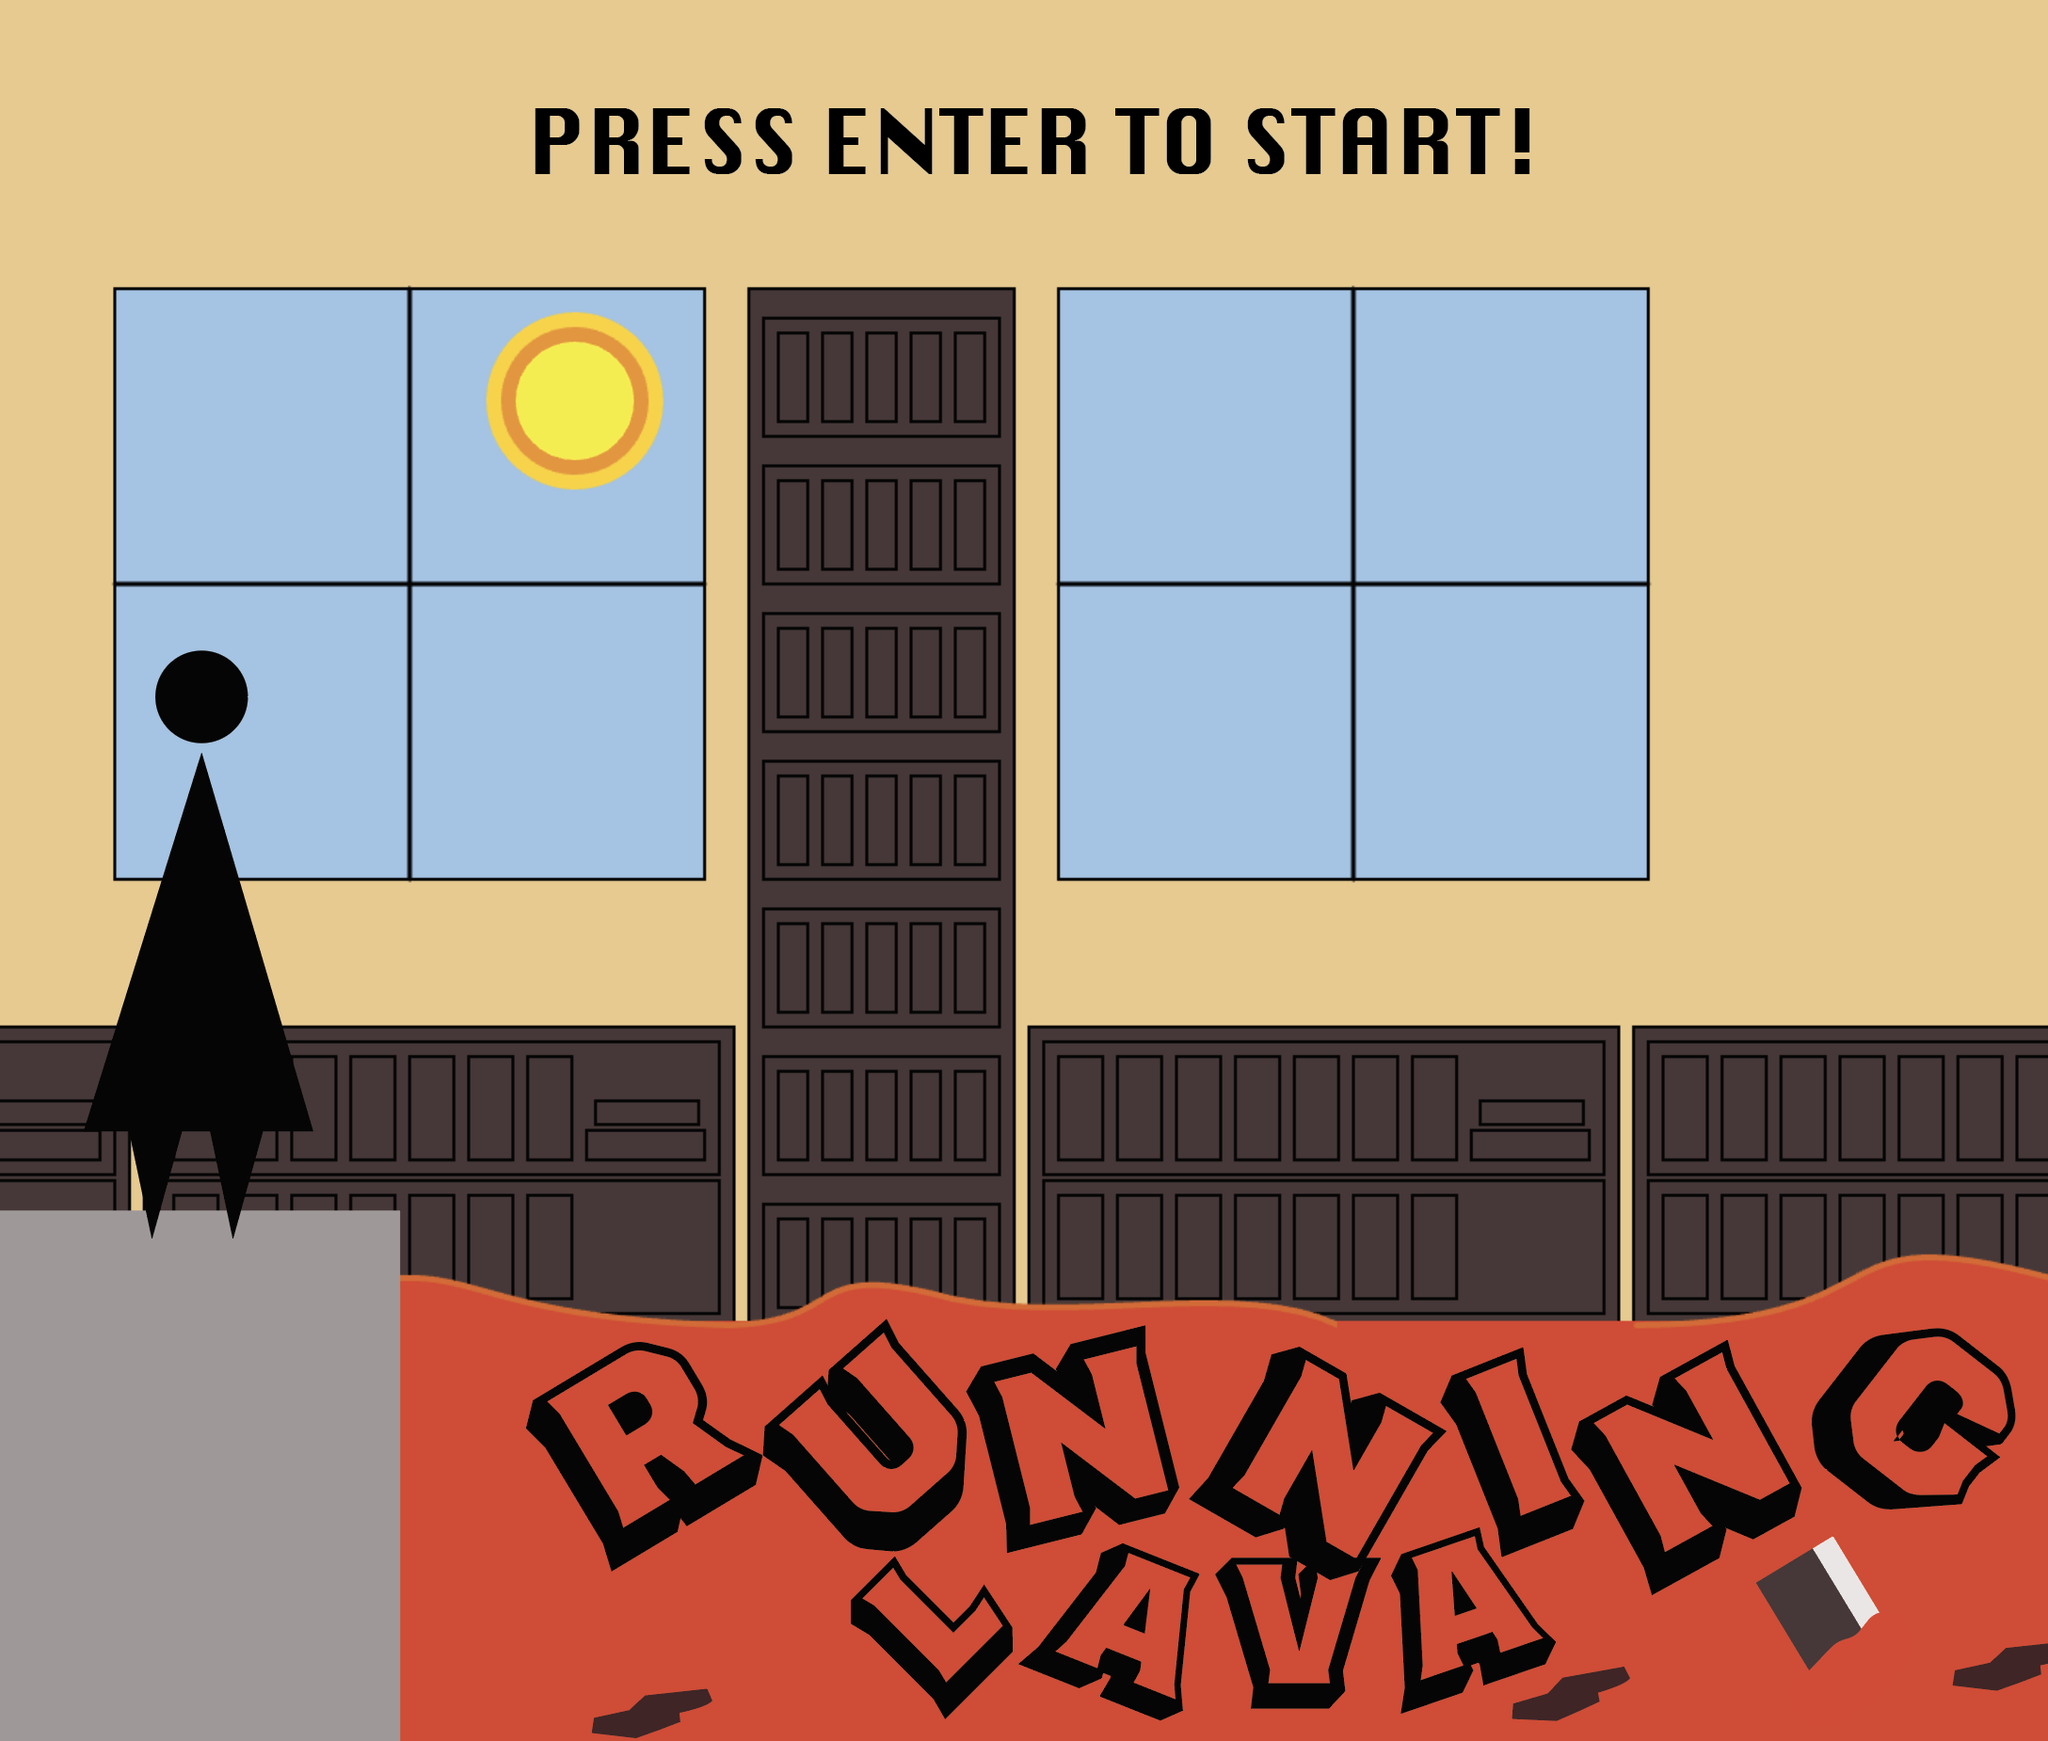
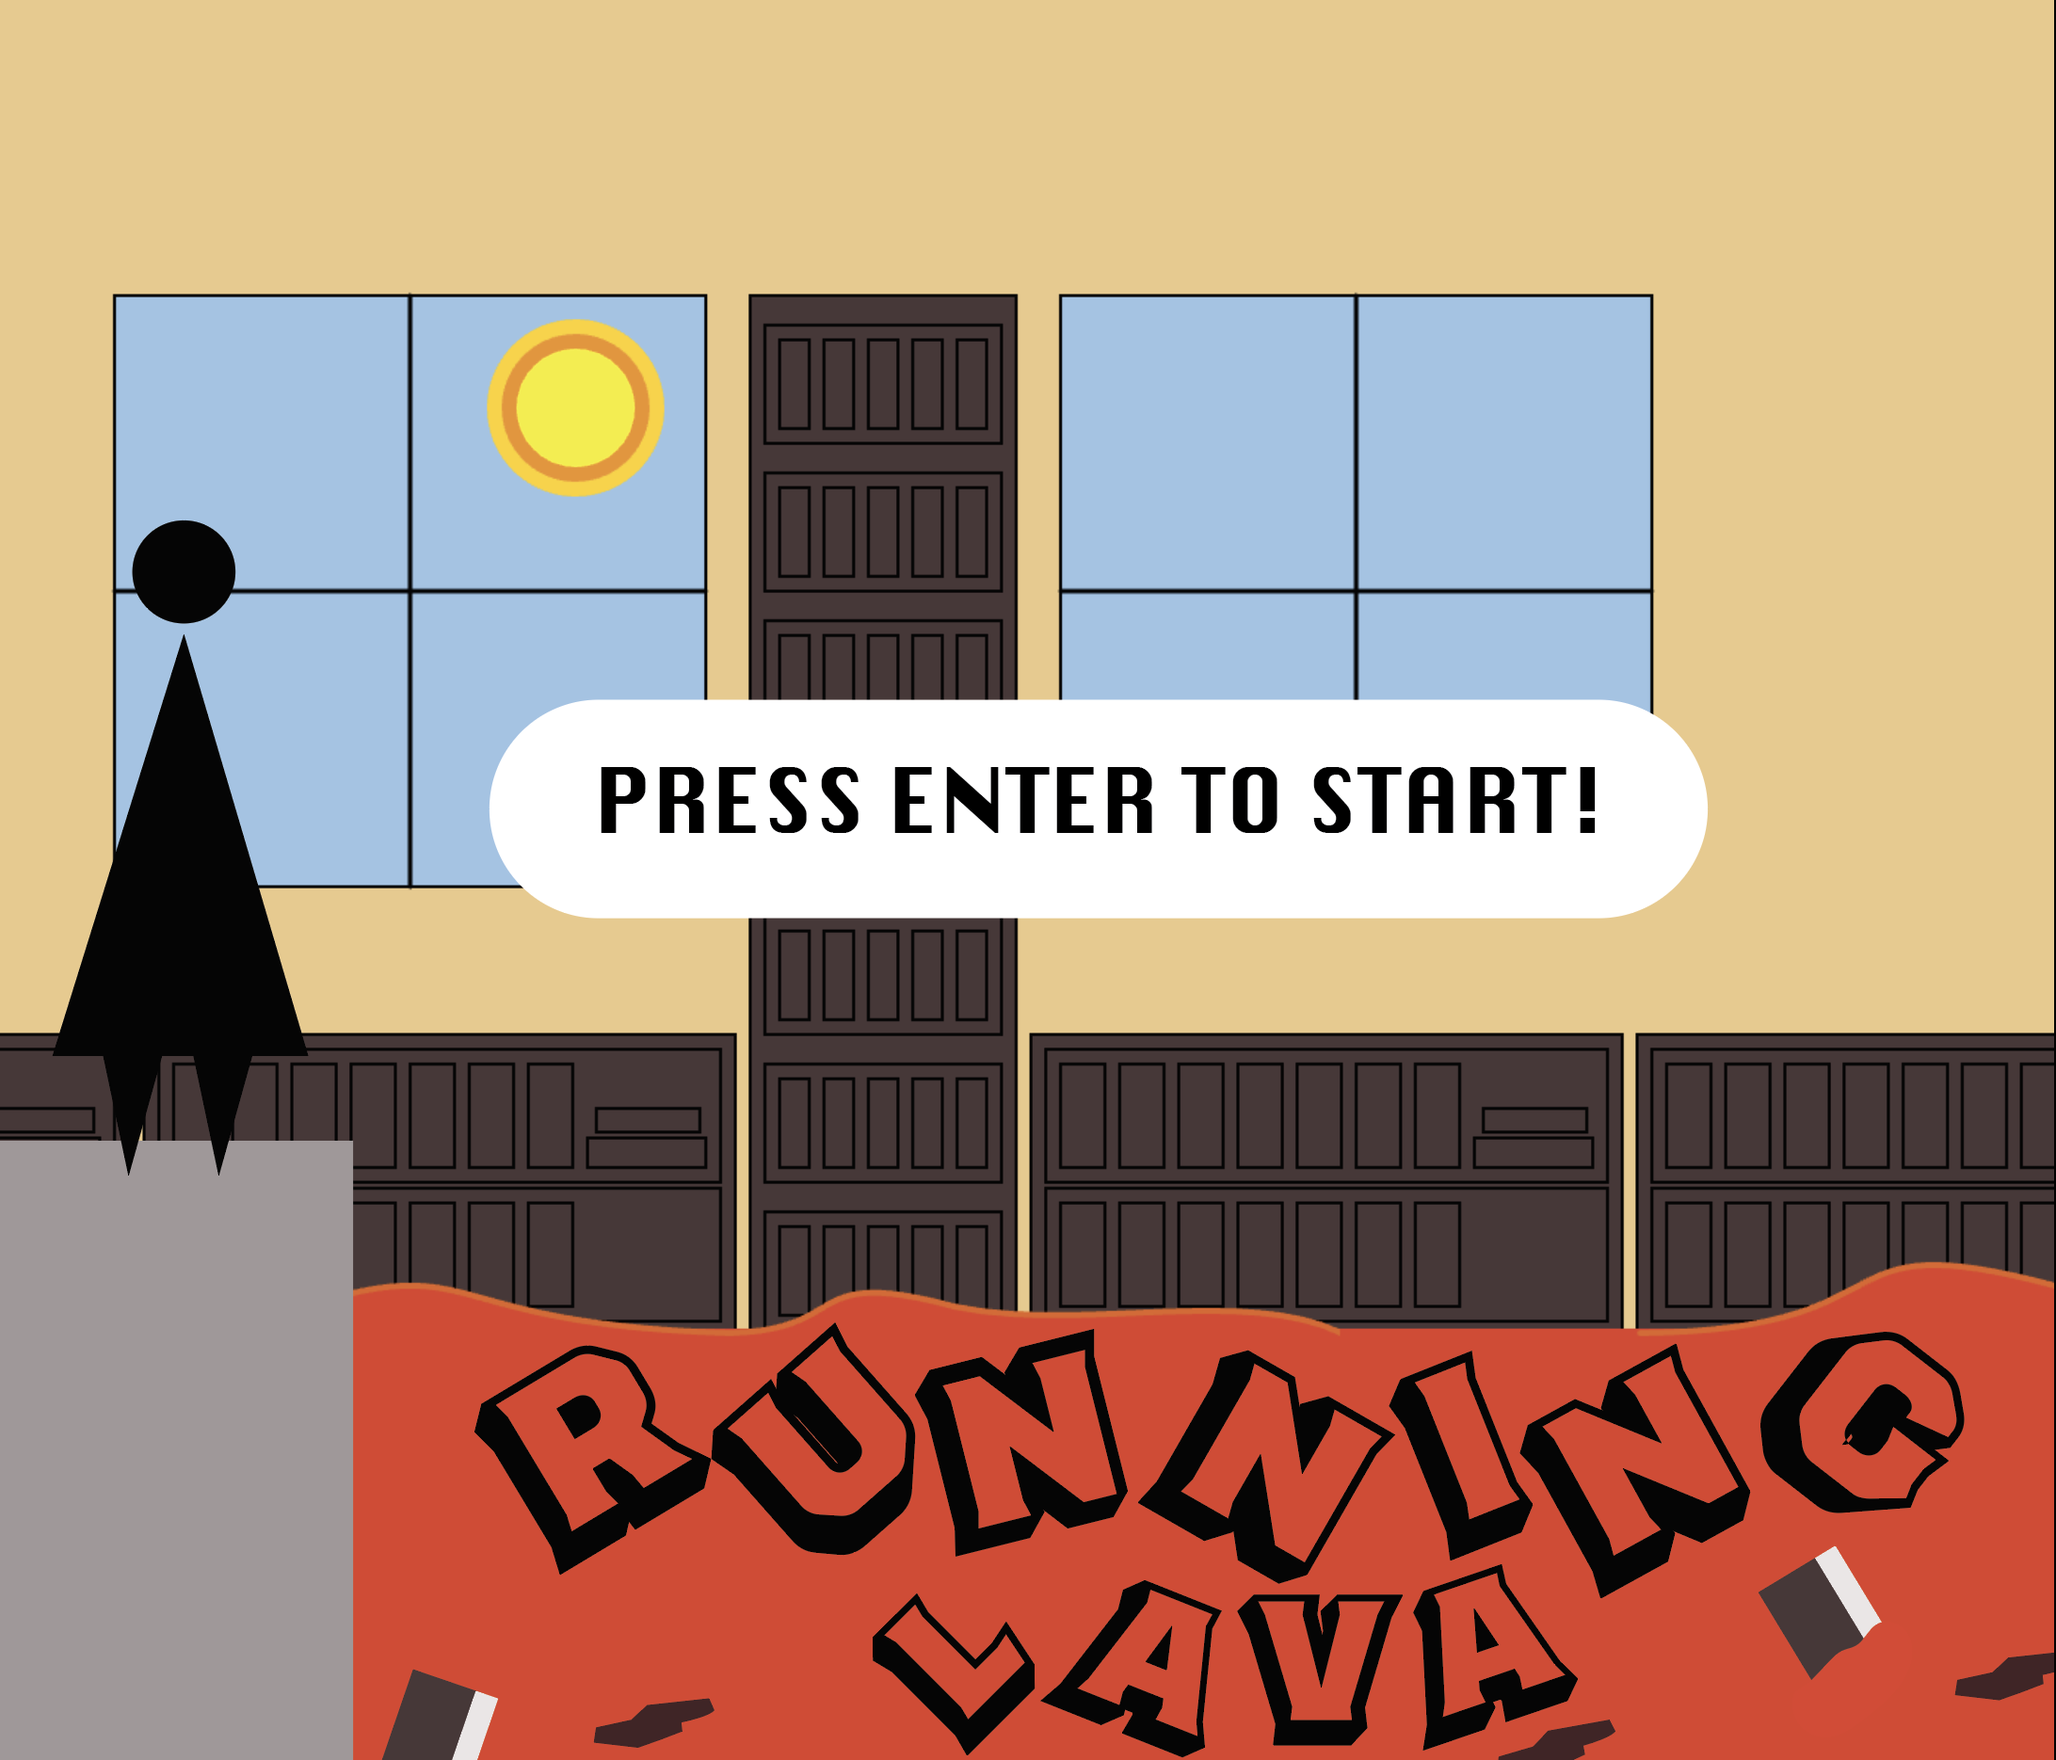
change book speed+start screen

diff --git a/Running-Lava.js b/Running-Lava.js
@@ -17,6 +17,7 @@ class Debris {
     vertex(this.x - 6, this.y + 64);
     endShape(CLOSE);
   }
+
   drawSmallRock() {
     fill(73, 55, 56);
     beginShape();
@@ -127,14 +128,6 @@ function startScreen() {
 
   //GAME NAME
   image(imag3, 0, 0, 700, 600);
-
-  //START button
-  fill(0);
-  rect(201, 309, 319, 70, 50);
-  textSize(24);
-  fill(245);
-  textFont("sans-serif");
-  text("Press ENTER to Start", 244, 350);
 }
 
 function drawBigTable(x, y) {
@@ -174,8 +167,8 @@ function displayBook(x, y) {
 function updateBooks() {
   for (let i = 0; i < books.length; i++) {
     let book = books[i];
-    book.y += 10;
-    book.x -= 10;
+    book.y += speed;
+    book.x -= speed;
 
     displayBook(book.x, book.y);
 
